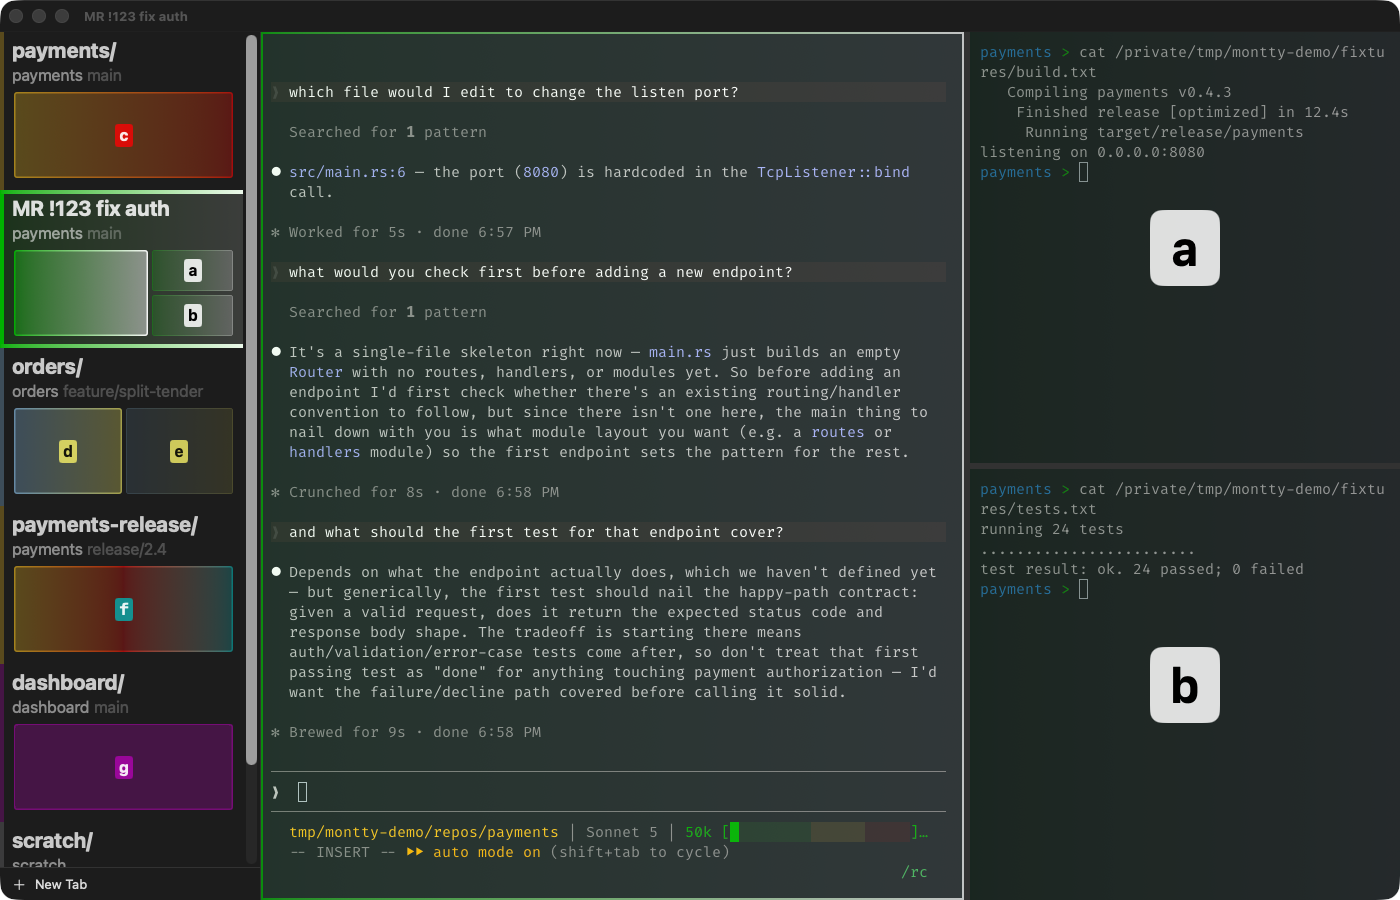
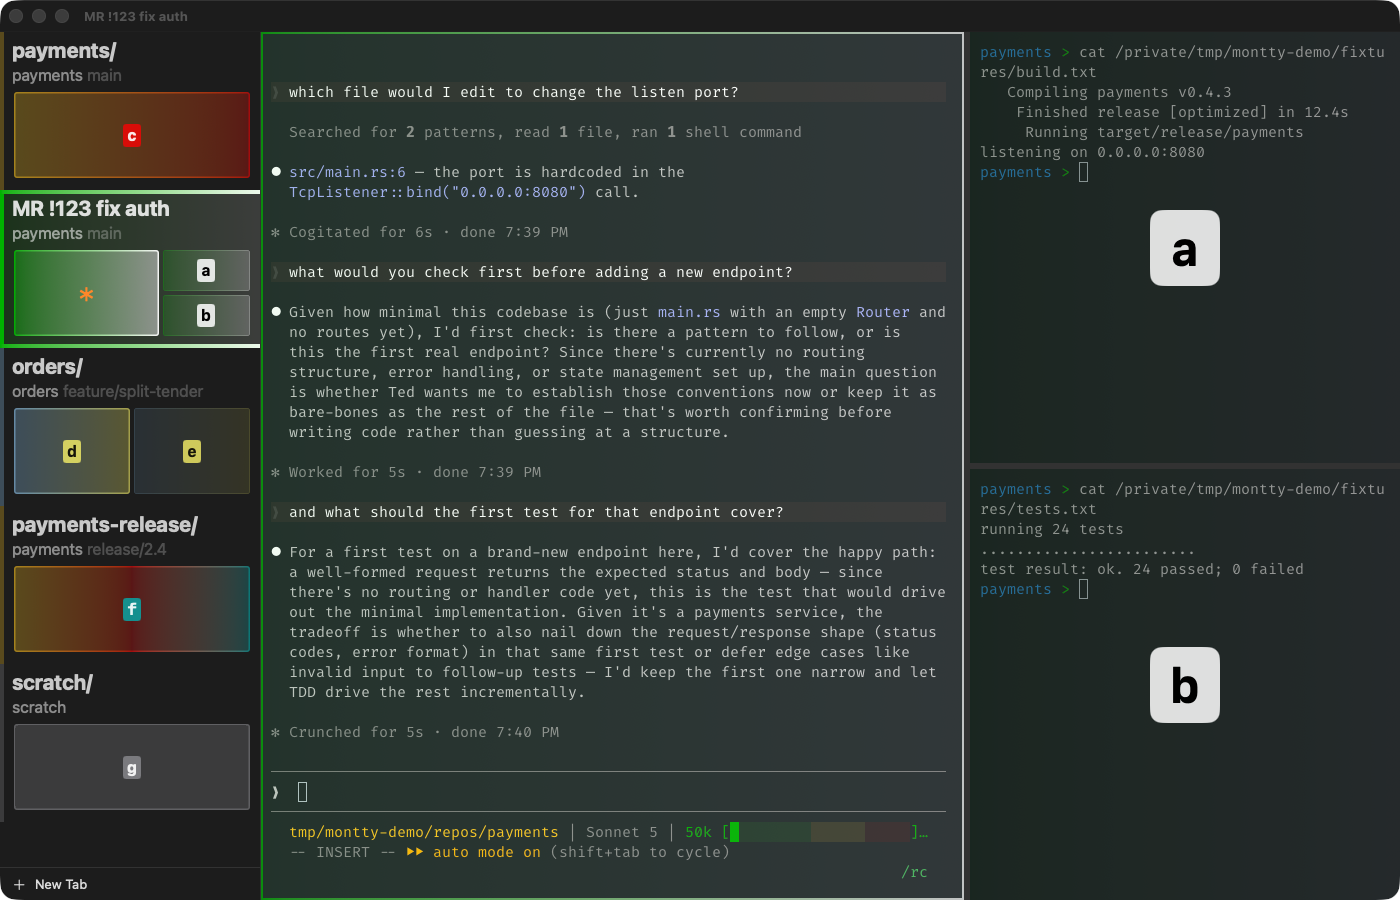
fix: stop misrepresenting activity status and hide the demo tree behind a fold
The MR tab's two static build/tests panes showed working/waiting stars
even though nothing was happening in them; the Claude pane, where a
real conversation runs, showed nothing. Move the stars to background
tabs (payments, orders) that aren't claiming anything about currently
visible content, and give the Claude pane its own idle glyph instead.

Also drop the dashboard tab from window one: with six tabs the sidebar
scrolled scratch/ mostly out of view in the CLI screenshot. Dropping
one tab brings it fully into frame; the dashboard repo-color override
is still demonstrated by window two's own dashboard tab.

Claude-Session: https://claude.ai/code/session_01YPDzwZr9WKV5ZPXB3EZysd

diff --git a/scripts/montty_demo.py b/scripts/montty_demo.py
@@ -56,7 +56,7 @@ WINDOWS = [
         frame={"x": 120, "y": 120, "width": 1400, "height": 900},
         active_tab=1,
         tabs=[
-            Tab(key="w1t1", directory=str(REPOS / "payments"), content={0: "tree"}),
+            Tab(key="w1t1", directory=str(REPOS / "payments"), statuses={0: "working"}, content={0: "tree"}),
             Tab(
                 key="w1t2",
                 directory=str(REPOS / "payments"),
@@ -64,13 +64,18 @@ WINDOWS = [
                 color=["green", "neutralBright"],
                 panes=3,
                 focused_pane=0,
-                statuses={1: "working", 2: "waiting"},
+                statuses={0: "idle"},
                 claude_pane=0,
                 content={1: "build", 2: "tests"},
             ),
-            Tab(key="w1t3", directory=str(REPOS / "orders"), panes=2, content={0: "tree", 1: "build"}),
+            Tab(
+                key="w1t3",
+                directory=str(REPOS / "orders"),
+                panes=2,
+                statuses={1: "waiting"},
+                content={0: "tree", 1: "build"},
+            ),
             Tab(key="w1t4", directory=str(REPOS / "payments-release"), content={0: "tree"}),
-            Tab(key="w1t5", directory=str(REPOS / "dashboard"), content={0: "tree"}),
             Tab(key="w1t6", directory=str(DEMO_ROOT / "scratch"), content={0: "cli"}),
         ],
     ),

diff --git a/scripts/test_montty_demo.py b/scripts/test_montty_demo.py
@@ -18,9 +18,9 @@ class BuildSessionTest(unittest.TestCase):
         self.assertEqual(self.session["version"], 4)
         self.assertEqual(len(self.session["windows"]), 2)
 
-    def test_first_window_carries_the_six_tab_roster(self):
+    def test_first_window_carries_the_five_tab_roster(self):
         names = [t["name"] for t in self.session["windows"][0]["tabs"]]
-        self.assertEqual(names, ["", "MR !123 fix auth", "", "", "", ""])
+        self.assertEqual(names, ["", "MR !123 fix auth", "", "", ""])
 
     def test_auto_named_tabs_store_an_empty_name(self):
         first = self.session["windows"][0]["tabs"][0]
